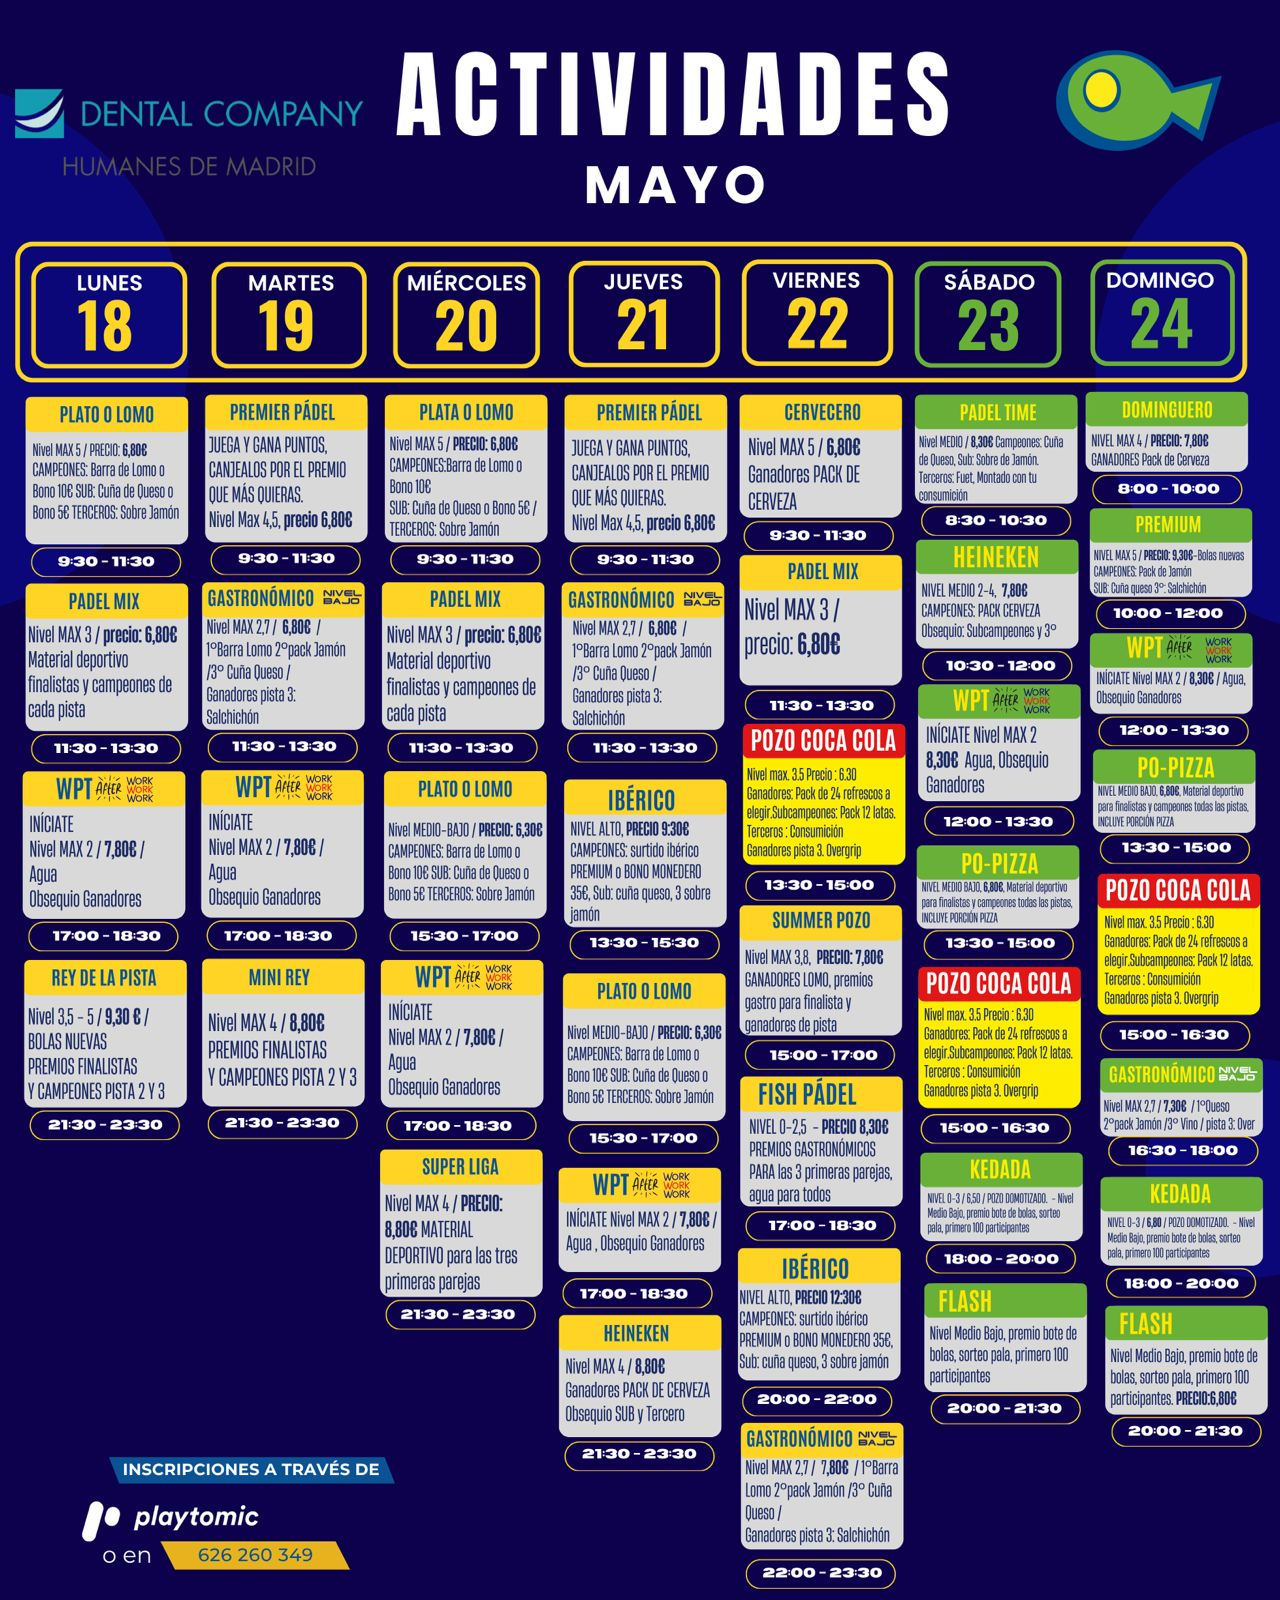
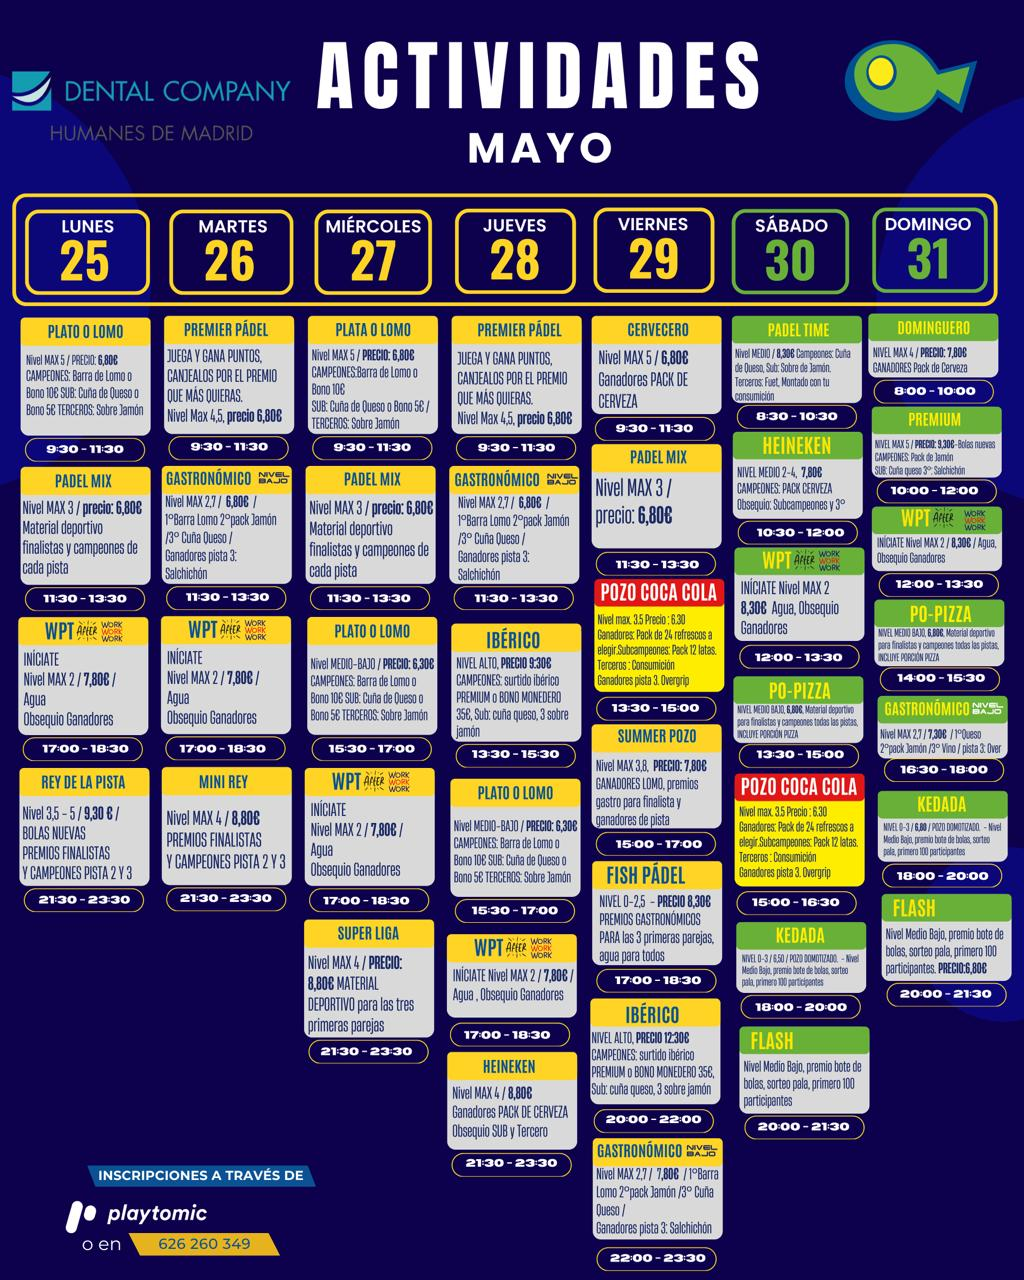
feat: add equipo-12 to equipo-17 to carousel and update actividades hero image

diff --git a/equipos.html b/equipos.html
@@ -109,6 +109,24 @@
               <div class="equipos-carousel__slide">
                 <img src="/src/assets/images/equipos/equipo-11.jpeg" alt="Equipo 11" />
               </div>
+              <div class="equipos-carousel__slide">
+                <img src="/src/assets/images/equipos/equipo-12.jpeg" alt="Equipo 12" />
+              </div>
+              <div class="equipos-carousel__slide">
+                <img src="/src/assets/images/equipos/equipo-13.jpeg" alt="Equipo 13" />
+              </div>
+              <div class="equipos-carousel__slide">
+                <img src="/src/assets/images/equipos/equipo-14.jpeg" alt="Equipo 14" />
+              </div>
+              <div class="equipos-carousel__slide">
+                <img src="/src/assets/images/equipos/equipo-15.jpeg" alt="Equipo 15" />
+              </div>
+              <div class="equipos-carousel__slide">
+                <img src="/src/assets/images/equipos/equipo-16.jpeg" alt="Equipo 16" />
+              </div>
+              <div class="equipos-carousel__slide">
+                <img src="/src/assets/images/equipos/equipo-17.jpeg" alt="Equipo 17" />
+              </div>
             </div>
           </div>
 
